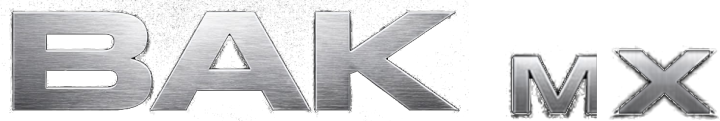
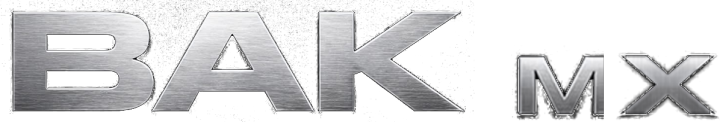
One place for parts: build sheet only; header MX lettering matched
- The bike form no longer asks 'What's changed' (exhaust, fork, shock, engine, ECU, intake,
  clutch, tire models): parts and work live only on the build sheet. 'Map you run' stays as a
  setting under 'Gearing, tires & map'. The form points to the build sheet instead.
- Answers older versions saved on that form reach Ask BAK only as a note for a section the
  build sheet says nothing about, never as a second, conflicting source.
- Garage readiness chip 'What's changed' becomes 'Build sheet' and reads the sheet.
- Header wordmark: M and X cut as one matched pair (same rows, same scale) so the M is no
  longer smaller and lighter than the X.

Claude-Session: https://claude.ai/code/session_01QUtwyzksjK6GBWw2v5DT5q

diff --git a/apps/mobile/src/App.tsx b/apps/mobile/src/App.tsx
@@ -34,6 +34,7 @@ import {mergeGarageDraft} from '../../../shared/garage-updates';
 import {AI_CONSENT_VERSION,aiConsentTitle,aiConsentPoints,aiConsentAgree} from '../../../shared/ai-consent';
 import type {SetupLog} from '../../../shared/rider-types';
 import {garageFieldGroups,buildProgress} from '../../../shared/garage-fields';
+import {systemsRecorded,partSystems} from '../../../shared/installed-parts';
 import {CommunityScreen,EventsScreen,MessagesScreen,SetupLogCard,PartsCatalogCard,ProfileCard,FeedbackCard,SetupGuideCard} from './RiderScreens';
 import type {RiderRef} from '../../../shared/rider-types';
 type Tabs={Home:undefined;Garage:undefined;'Ask BAK':{mode?:Conversation['mode'];context?:string;contextToken?:string;contextBikeId?:string}|undefined;Maintenance:undefined;Account:undefined;Setup:undefined;Specs:undefined;Workshop:undefined;Bikes:undefined;Community:undefined;Events:undefined;Messages:{rider?:RiderRef}|undefined};
@@ -60,13 +61,13 @@ function Home({navigation}:BottomTabScreenProps<Tabs,'Home'>){const{bike,bikes}=
 type Coverage={specs:number;suspension_settings:number;torque_values:number;parts_catalog:{complete:boolean;part_count:number}|null;workshop_guides:number};
 function BikeReadiness({bike,onEdit}:{bike:Bike;onEdit?:()=>void}){const[coverage,setCoverage]=useState<Coverage|null>(null);const progress=buildProgress(bike);useEffect(()=>{let live=true;setCoverage(null);api<Coverage>(`/api/coverage?bike_id=${bike.id}`).then(r=>{if(live)setCoverage(r);}).catch(()=>{});return()=>{live=false;};},[bike.id,bike.updated_at]);
  const c=bike.configuration??{},has=(keys:string[])=>keys.some(k=>c[k]!==null&&c[k]!==undefined&&String(c[k]).trim()!=='');
- const steps=[{label:'You',done:has(['geared_weight_lb','geared_weight_kg'])&&has(['skill_level'])},{label:'Clickers & sag',done:has(['fork_compression','fork_rebound','shock_compression','shock_rebound','rider_sag_mm'])},{label:'What’s changed',done:progress.total-progress.missing.length>=5||has(['exhaust','fork','shock','engine_modifications','active_map'])}];
+ const steps=[{label:'You',done:has(['geared_weight_lb','geared_weight_kg'])&&has(['skill_level'])},{label:'Clickers & sag',done:has(['fork_compression','fork_rebound','shock_compression','shock_rebound','rider_sag_mm'])},{label:'Build sheet',done:systemsRecorded(c)>=Math.ceil(partSystems.length/2)}];
  const have=coverage?[coverage.specs>0&&`${coverage.specs} specs`,coverage.torque_values>0&&`${coverage.torque_values} torques`,coverage.workshop_guides>0&&`${coverage.workshop_guides} guides`,coverage.parts_catalog&&'parts catalog'].filter(Boolean):[];
  return <View style={{gap:10}}><View style={{flexDirection:'row',flexWrap:'wrap',gap:8}}>{steps.map(x=><Chip key={x.label} label={x.label} done={x.done}/>)}</View>{onEdit&&steps.some(x=>!x.done)&&<LinkAction title="Finish setup · about 2 minutes" onPress={onEdit}/>}{coverage&&<Text style={{color:'#9aa2af',fontSize:13}}>{have.length?`BAK has ${have.join(' · ')} for this bike.`:'BAK has general knowledge for this bike; exact specs are still being added.'}</Text>}</View>;}
 function Garage({navigation}:BottomTabScreenProps<Tabs,'Garage'>){const [formOpen,setFormOpen]=useState(false);const [moreOpen,setMoreOpen]=useState<Record<string,boolean>>({});const c=useContext(Ctx),[savedDraft]=useState(()=>readProgress<{editing:string|null;custom?:boolean;make:string;model:string;year:string;variant:string;region:string;name:string;hours:string;config:Record<string,unknown>;base?:{at:string;config:Record<string,unknown>}}|null>(c.session.user.id,'garage-draft',null)),[custom,setCustom]=useState(savedDraft?.custom??false),[editing,setEditing]=useState<string|null>(savedDraft?.editing??null),[make,setMake]=useState(savedDraft?.make??'KTM'),[model,setModel]=useState(savedDraft?.model??'450 SX-F'),[year,setYear]=useState(savedDraft?.year??'2025'),[variant,setVariant]=useState(savedDraft?.variant??'standard'),[region,setRegion]=useState(savedDraft?.region??'US'),[name,setName]=useState(savedDraft?.name??''),[hours,setHours]=useState(savedDraft?.hours??''),[config,setConfig]=useState<Record<string,unknown>>(savedDraft?.config??{}),[notice,setNotice]=useState(''),[busy,setBusy]=useState(false);const fields=['engine','intake','exhaust','ecu','drivetrain','suspension','tires','rider'];const base=useRef<{at:string;config:Record<string,unknown>}>(savedDraft?.base??{at:'',config:savedDraft?.config??{}});
  /* The bike can change elsewhere while this form is open (a save from Ask BAK, the build sheet, the website): keep what the rider has edited here, take the rest from the saved bike. */
  useEffect(()=>{if(!editing)return;const sb=c.bikes.find(x=>x.id===editing);if(!sb||!sb.updated_at||sb.updated_at===base.current.at)return;const server=sb.configuration??{};setConfig(old=>mergeGarageDraft(old,base.current.config,server));base.current={at:sb.updated_at,config:server};},[c.bikes,editing]);const alive=useAlive(),mutating=useRef(false);useEffect(()=>{try{writeProgress(c.session.user.id,'garage-draft',{editing,custom,make,model,year,variant,region,name,hours,config,base:base.current});}catch{setNotice('This device could not save the Garage draft.');}},[editing,custom,make,model,year,variant,region,name,hours,config,c.session.user.id]);function load(b?:Bike,force=false){if(mutating.current&&!force)return;base.current={at:b?.updated_at??'',config:b?.configuration??{}};setEditing(b?.id??null);setCustom(Boolean(b&&(!models[b.manufacturer]?.includes(b.model)||!garageModelYears(b.manufacturer,b.model).includes(b.model_year))));setMake(b?.manufacturer??'KTM');setModel(b?.model??'450 SX-F');setYear(String(b?.model_year??2025));setVariant(b?.variant??'standard');setRegion(b?.region??'US');setName(b?.nickname??'');setHours(b?.engine_hours?.toString()??'');setConfig(b?.configuration??{});}async function save(){if(mutating.current)return;mutating.current=true;setBusy(true);try{if(!make.trim()||!model.trim()||!/^\d{4}$/.test(year)||Number(year)<1970||Number(year)>2027)throw new Error('Enter the manufacturer, exact off-road model and a year from 1970 to 2027.');const body={manufacturer:make.trim(),model:model.trim(),model_year:Number(year),variant,region,nickname:name,engine_hours:num(hours),configuration:{...config,...(custom?{identity_source:'rider_declared',vehicle_use:config.vehicle_use??'motocross'}:{})}};let submission:Record<string,unknown>=body;if(!editing){const attempt=createAttempt(readProgress(c.session.user.id,'bike-create',null),body,randomUUID);writeProgress(c.session.user.id,'bike-create',attempt);submission={...body,create_id:attempt.id};}const r=await api<Bike>(editing?`/api/bikes?id=${editing}`:'/api/bikes',editing?'PATCH':'POST',submission);if(!alive.current)return;load(r,true);c.select(r.id);setFormOpen(false);try{writeProgress(c.session.user.id,'bike-create',null);}catch{}success();try{await c.reload();if(alive.current)setNotice('Motorcycle saved.');}catch{if(alive.current)setNotice('Motorcycle saved. Retry the Garage connection to refresh your bike list.');}}catch(e){setNotice(errorText(e));}finally{mutating.current=false;if(alive.current)setBusy(false);}}async function remove(id:string){if(mutating.current||!alive.current)return;mutating.current=true;setBusy(true);try{await api(`/api/bikes?id=${id}`,'DELETE');if(!alive.current)return;await c.reload();if(alive.current)load(undefined,true);}catch(e){if(alive.current)setNotice(errorText(e));}finally{mutating.current=false;if(alive.current)setBusy(false);}}const show=formOpen||!c.bikes.length;const[wheel,setWheel]=useState(false);const[gtab,setGtab]=useState<'overview'|'build'|'photos'>('overview');const garagePhotos=useBikePhotos(c.bike?.id);
- const groupNotes:Record<string,string>={'You':'Sets spring and clicker direction','Clickers & sag':'Where your settings are now. Blank means stock.','What’s changed':'Leave blank if it’s stock','Gearing & tires':'Optional'};
+ const groupNotes:Record<string,string>={'You':'Sets spring and clicker direction','Clickers & sag':'Where your settings are now. Blank means stock.','Gearing, tires & map':'Optional'};
  const field=(f:{key:string;label:string;numeric?:boolean;unit?:string;placeholder?:string;options?:string[]})=>f.options?<Select key={f.key} disabled={busy} label={f.label} value={config[f.key]==null?'':String(config[f.key])} options={[{value:'',label:'—'},...f.options.map(o=>({value:o,label:o})),...(config[f.key]&&!f.options.includes(String(config[f.key]))?[{value:String(config[f.key]),label:String(config[f.key])}]:[])]} onChange={v=>setConfig({...config,[f.key]:v||null})}/>:<Field editable={!busy} key={f.key} label={f.unit?`${f.label} (${f.unit})`:f.label} placeholder={f.placeholder} keyboardType={f.numeric?'decimal-pad':'default'} value={config[f.key]==null?'':String(config[f.key])} onChangeText={v=>setConfig({...config,[f.key]:v.trim()?(f.numeric&&Number.isFinite(Number(v))?Number(v):v):null})}/>;
  return <Page title="Garage"><Notice text={notice}/>
  {!show&&c.bike&&(()=>{const b=c.bike;const others=c.bikes.length>1;return <>
@@ -106,7 +107,7 @@ function Garage({navigation}:BottomTabScreenProps<Tabs,'Garage'>){const [formOpe
    <Pressable accessibilityRole="button" onPress={()=>setMoreOpen({...moreOpen,_bike:!moreOpen._bike})}><Text style={{color:colors.accent,fontWeight:'700'}}>{moreOpen._bike?'Hide details':'More details'}</Text></Pressable>
    {moreOpen._bike&&<><Field editable={!busy} label="Nickname" placeholder="Race bike" value={name} onChangeText={setName}/><Field editable={!busy} label="Version (“standard” unless Factory Edition etc.)" value={variant} onChangeText={setVariant}/><Field editable={!busy} label="Market" value={region} onChangeText={setRegion}/><Pressable accessibilityRole="button" onPress={()=>{if(custom){setCustom(false);setMake('KTM');setModel(models.KTM[0]);setYear(String(garageModelYears('KTM',models.KTM[0]).at(-1)));}else{setCustom(true);setMake('');setModel('');}}}><Text style={{color:colors.accent,fontWeight:'700'}}>{custom?'Pick from the list instead':'My bike isn’t listed'}</Text></Pressable>{editing&&<Pressable accessibilityRole="button" onPress={()=>Alert.alert('Delete this bike?','This also removes its conversations and service history.',[{text:'Cancel',style:'cancel'},{text:'Delete',style:'destructive',onPress:()=>{setFormOpen(false);void remove(editing);}}])}><Text style={{color:'#e69a9a',fontWeight:'700'}}>Delete this bike</Text></Pressable>}</>}
   </Card>
-  {(Object.entries(garageFieldGroups) as [string,{key:string;label:string;numeric?:boolean;unit?:string;placeholder?:string;options?:string[];more?:boolean}[]][]).map(([group,list])=><Card key={group}><Text style={{color:colors.text,fontSize:17,fontWeight:'800'}}>{group}</Text><Text style={{color:'#9aa2af',fontSize:13}}>{groupNotes[group]??''}</Text>{list.filter(f=>!f.more).map(field)}{list.some(f=>f.more)&&<Pressable accessibilityRole="button" onPress={()=>setMoreOpen({...moreOpen,[group]:!moreOpen[group]})}><Text style={{color:colors.accent,fontWeight:'700'}}>{moreOpen[group]?'Less':'More'}</Text></Pressable>}{moreOpen[group]&&list.filter(f=>f.more).map(field)}</Card>)}
+  {(Object.entries(garageFieldGroups) as [string,{key:string;label:string;numeric?:boolean;unit?:string;placeholder?:string;options?:string[];more?:boolean}[]][]).map(([group,list])=><Card key={group}><Text style={{color:colors.text,fontSize:17,fontWeight:'800'}}>{group}</Text><Text style={{color:'#9aa2af',fontSize:13}}>{groupNotes[group]??''}</Text>{list.filter(f=>!f.more).map(field)}{list.some(f=>f.more)&&<Pressable accessibilityRole="button" onPress={()=>setMoreOpen({...moreOpen,[group]:!moreOpen[group]})}><Text style={{color:colors.accent,fontWeight:'700'}}>{moreOpen[group]?'Less':'More'}</Text></Pressable>}{moreOpen[group]&&list.filter(f=>f.more).map(field)}</Card>)}<Card><Text style={{color:colors.text,fontSize:17,fontWeight:'800'}}>Parts and work done</Text><Text style={{color:'#9aa2af',fontSize:13}}>{editing?'Exhaust, suspension work, clutch, tires and everything else fitted go on the build sheet, so BAK has one place to read them.':'After you save, add what’s fitted on the build sheet: exhaust, suspension work, clutch, tires and the rest.'}</Text>{editing&&<LinkAction title="Open the build sheet" onPress={()=>{setFormOpen(false);setGtab('build');}}/>}</Card>
   <Button disabled={busy} title={busy?'Saving…':'Save'} onPress={()=>void save()}/>{c.bikes.length>0&&<Button secondary disabled={busy} title="Cancel" onPress={()=>{load(undefined,true);setFormOpen(false);}}/>}
  </>}
  </Page>}

diff --git a/shared/garage-fields.ts b/shared/garage-fields.ts
@@ -1,6 +1,7 @@
 import type {Bike} from './types.ts';
 import {readInstalled,systemsRecorded,partSystems} from './installed-parts.ts';
-/** One definition of the build profile for web and native, so a bike edited on either reads the same. */
+/** One definition of the build profile for web and native, so a bike edited on either reads the same. Settings live here;
+ *  parts and work done live only on the build sheet (installed-parts.ts), so the two can never disagree. */
 export type GarageField={key:string;label:string;numeric?:boolean;unit?:string;placeholder?:string;options?:string[];hint?:string;more?:boolean};
 /** Written the way riders write it on the setup sheet in the truck: clicks out from all the way in, sag in mm, gearing 13/50.
  *  Everything is optional; "more" fields stay folded away so a first setup takes a couple of minutes. */
@@ -19,21 +20,11 @@ export const garageFieldGroups:Record<string,GarageField[]>={
   {key:'fork_spring_rate',label:'Fork springs',placeholder:'Stock, or 4.6 N/mm / air psi'},
   {key:'shock_spring_rate',label:'Shock spring',placeholder:'Stock, or 48 N/mm'},
   {key:'fork_height_mm',label:'Fork tubes above top clamp',numeric:true,unit:'mm',placeholder:'5',more:true}],
- 'What’s changed':[
-  {key:'exhaust',label:'Exhaust',placeholder:'Stock, or brand and model'},
-  {key:'fork',label:'Fork work',placeholder:'Stock, or revalved by…'},
-  {key:'shock',label:'Shock work',placeholder:'Stock, or revalved by…'},
-  {key:'engine_modifications',label:'Engine work',placeholder:'Stock, or cams, piston, head work…'},
-  {key:'active_map',label:'Map you run',placeholder:'Map 2, TC on'},
-  {key:'ecu',label:'ECU or tuner',placeholder:'Stock, or flashed by…',more:true},
-  {key:'intake',label:'Air filter / intake',placeholder:'Stock',more:true},
-  {key:'clutch',label:'Clutch',placeholder:'Stock, or auto clutch, springs…',more:true}],
- 'Gearing & tires':[
+ 'Gearing, tires & map':[
   {key:'front_sprocket',label:'Front sprocket',numeric:true,placeholder:'13'},
   {key:'rear_sprocket',label:'Rear sprocket',numeric:true,placeholder:'50'},
   {key:'tire_pressures',label:'Tire pressure',placeholder:'13 / 13 psi'},
-  {key:'front_tire',label:'Front tire',placeholder:'MX33 80/100-21',more:true},
-  {key:'rear_tire',label:'Rear tire',placeholder:'MX33 110/90-19',more:true}],
+  {key:'active_map',label:'Map you run',placeholder:'Map 2, TC on'}],
 };
 /** Rider measurements are kept in US units. Builds saved before that change stored kilograms and centimetres; convert them once, here. */
 export function usConfiguration(configuration:Record<string,unknown>|null|undefined):Record<string,unknown>{
@@ -45,6 +36,9 @@ export function usConfiguration(configuration:Record<string,unknown>|null|undefi
  return c;
 }
 export const allGarageFields=Object.values(garageFieldGroups).flat();
+/** Free-text part answers older versions asked for on this form, by build-sheet system. Parts now live only on the build
+ *  sheet; these are read as notes for a system the sheet doesn't cover, and never shown as a separate source. */
+export const LEGACY_PART_FIELDS:Record<string,string>={exhaust:'exhaust',fork:'suspension',shock:'suspension',engine_modifications:'engine',ecu:'tuning',intake:'intake',clutch:'clutch',front_tire:'wheels',rear_tire:'wheels'};
 const filled=(v:unknown)=>v!==null&&v!==undefined&&String(v).trim()!=='';
 export type BuildCheck={id:string;label:string;done:boolean;why:string};
 /** What BAK knows about this build. Each item says why it matters, so a gap is a reason to fill it in. */
@@ -55,9 +49,9 @@ export function buildChecks(bike:Pick<Bike,'engine_hours'|'configuration'>):Buil
   {id:'hours',label:'Engine hours',done:bike.engine_hours!==null&&bike.engine_hours!==undefined,why:'Service timing and wear-related advice depend on hours.'},
   {id:'rider',label:'Rider weight and level',done:(filled(c.geared_weight_lb)||filled(c.geared_weight_kg))&&filled(c.skill_level),why:'Spring rate and setup direction start from the rider.'},
   {id:'suspension',label:'Current suspension settings',done:any(['rider_sag_mm','fork_compression','fork_rebound','shock_compression','shock_rebound']),why:'BAK can only suggest a change from where your clickers and sag are now.'},
-  {id:'springs',label:'Spring rates or revalve',done:any(['fork_spring_rate','shock_spring_rate','fork','shock']),why:'Stock settings stop applying once springs or valving change.'},
-  {id:'engine',label:'Engine, exhaust and map',done:any(['engine_modifications','exhaust','ecu','active_map','intake'])||onSheet(['exhaust','engine','tuning','intake']),why:'Mapping and jetting advice depends on what is fitted.'},
-  {id:'drivetrain',label:'Gearing and tires',done:any(['front_sprocket','rear_sprocket','front_tire','rear_tire','tire_pressures'])||onSheet(['gearing','wheels']),why:'Gearing and tire choice change how the bike drives and turns.'},
+  {id:'springs',label:'Spring rates or revalve',done:any(['fork_spring_rate','shock_spring_rate'])||onSheet(['suspension']),why:'Stock settings stop applying once springs or valving change.'},
+  {id:'engine',label:'Engine, exhaust and map',done:any(['active_map'])||onSheet(['exhaust','engine','tuning','intake']),why:'Mapping and jetting advice depends on what is fitted.'},
+  {id:'drivetrain',label:'Gearing and tires',done:any(['front_sprocket','rear_sprocket','tire_pressures'])||onSheet(['gearing','wheels']),why:'Gearing and tire choice change how the bike drives and turns.'},
   {id:'parts',label:'What’s on the bike',done:systemsRecorded(c)>=Math.ceil(partSystems.length/2),why:'Fitted parts change which stock settings and maps still apply.'},
  ];
 }

diff --git a/server/installed-parts-context.ts b/server/installed-parts-context.ts
@@ -2,6 +2,7 @@ import {readInstalled,partSystems,systemLabel} from '../shared/installed-parts.t
 import {researchedParts} from '../shared/aftermarket-research.ts';
 import {workProviders} from '../shared/work-providers.ts';
 import {checkBuild} from '../shared/build-check.ts';
+import {LEGACY_PART_FIELDS} from '../shared/garage-fields.ts';
 /** What the rider has fitted, for the answer model: each part by system with the research notes BAK holds for it, the systems
  *  confirmed stock, and the systems not recorded (unknown, not stock). Null when nothing has been recorded. */
 /** A shop's service notes describe the bikes it lists (a two-stroke ECU remap is not a 450 four-stroke remap): attach them only
@@ -13,6 +14,10 @@ function researchFor(id:string|undefined,bike?:{manufacturer:string;model:string
 }
 export function installedPartsContext(configuration:Record<string,unknown>|null|undefined,bike?:{manufacturer:string;model:string;model_year?:number}){
  const {parts,stock,notes}=readInstalled(configuration);
+ // older setup-form answers: kept only as a note for a system the build sheet says nothing about
+ const covered=new Set([...parts.map(p=>p.s as string),...stock]),legacy:Record<string,string>={};
+ for(const [key,system] of Object.entries(LEGACY_PART_FIELDS)){const v=String(configuration?.[key]??'').trim();if(v&&!covered.has(system))legacy[system]=[legacy[system],v].filter(Boolean).join('; ');}
+ for(const [system,v] of Object.entries(legacy))if(!notes[system as keyof typeof notes])(notes as Record<string,string>)[system]=v;
  if(!parts.length&&!stock.length&&!Object.keys(notes).length)return null;
  const known=new Set([...parts.filter(p=>!p.o).map(p=>p.s),...stock]);
  const describe=(p:typeof parts[number])=>{const r=researchFor(p.r,bike);return {system:systemLabel(p.s),part:[p.b,p.n].filter(Boolean).join(' '),...(p.v?{size:p.v}:{}),...(p.k?{color:p.k}:{}),...(p.p?{part_number:p.p}:{}),...(p.d?{rider_detail:p.d}:{}),
@@ -29,4 +34,4 @@ export function installedPartsContext(configuration:Record<string,unknown>|null|
  };
 }
 /** The bike's configuration without the build-sheet keys, which installed_parts carries in readable form. */
-export function withoutBuildSheet(configuration:Record<string,unknown>){const {installed_parts:_a,stock_systems:_b,parts_notes:_c,...rest}=configuration;return rest;}
+export function withoutBuildSheet(configuration:Record<string,unknown>){const {installed_parts:_a,stock_systems:_b,parts_notes:_c,...rest}=configuration;for(const k of Object.keys(LEGACY_PART_FIELDS))delete rest[k];return rest;}

diff --git a/src/App.tsx b/src/App.tsx
@@ -20,6 +20,7 @@ import {api,supabase} from './client';
 import {finalDrive,gearingChange,sagPercent,speedKmh} from '../shared/calculators';
 const Workshop=lazy(()=>import('./Workshop').then(m=>({default:m.Workshop})));
 import {garageFieldGroups,buildProgress,usConfiguration,type GarageField} from '../shared/garage-fields';
+import {systemsRecorded,partSystems} from '../shared/installed-parts';
 import {Community,Events,Messages,ProfilePanel,Feedback,SetupLogPanel,PartsCatalog,SetupGuide,ReportQueue} from './Rider';
 import type {RiderRef} from '../shared/rider-types';
 import {buildIdentity,exactBikeScope,canonicalVariant,canonicalRegion} from '../shared/bike-identity';
@@ -87,7 +88,7 @@ function BikeReadiness({bike,onEdit}:{bike:Bike;onEdit:()=>void}){
  const [coverage,setCoverage]=useState<Coverage|null>(null);const progress=buildProgress(bike);
  useEffect(()=>{let live=true;setCoverage(null);api<Coverage>('/coverage?bike_id='+bike.id).then(c=>{if(live)setCoverage(c)}).catch(()=>{});return()=>{live=false}},[bike.id,bike.updated_at]);
  const c=bike.configuration??{},has=(keys:string[])=>keys.some(k=>c[k]!==null&&c[k]!==undefined&&String(c[k]).trim()!=='');
- const steps=[{label:'You',done:has(['geared_weight_lb','geared_weight_kg'])&&has(['skill_level'])},{label:'Clickers & sag',done:has(['fork_compression','fork_rebound','shock_compression','shock_rebound','rider_sag_mm'])},{label:'What’s changed',done:progress.total-progress.missing.length>=5||has(['exhaust','fork','shock','engine_modifications','active_map'])}];
+ const steps=[{label:'You',done:has(['geared_weight_lb','geared_weight_kg'])&&has(['skill_level'])},{label:'Clickers & sag',done:has(['fork_compression','fork_rebound','shock_compression','shock_rebound','rider_sag_mm'])},{label:'Build sheet',done:systemsRecorded(c)>=Math.ceil(partSystems.length/2)}];
  const left=steps.filter(x=>!x.done).length;
  const have=coverage?[coverage.specs>0&&`${coverage.specs} specs`,coverage.torque_values>0&&`${coverage.torque_values} torques`,coverage.workshop_guides>0&&`${coverage.workshop_guides} guides`,coverage.parts_catalog&&'parts catalog'].filter(Boolean):[];
  return <div className="readiness simple">

diff --git a/tests/installed-parts.test.ts b/tests/installed-parts.test.ts
@@ -31,7 +31,10 @@ test('Ask BAK gets fitted parts with research notes, confirmed stock and unknown
  assert.deepEqual(ctx.confirmed_stock,['Brakes']);
  assert.ok(ctx.not_recorded.includes('Suspension')&&!ctx.not_recorded.includes('Exhaust'));
  assert.equal(installedPartsContext({}),null);
- assert.deepEqual(withoutBuildSheet({installed_parts:[],stock_systems:[],parts_notes:{},exhaust:'FMF'}),{exhaust:'FMF'});
+ // parts typed on the old setup form never travel as a second source: they are notes only where the sheet is silent
+ assert.deepEqual(withoutBuildSheet({installed_parts:[],stock_systems:[],parts_notes:{},exhaust:'FMF',active_map:'Map 2'}),{active_map:'Map 2'});
+ assert.equal(installedPartsContext({exhaust:'FMF 4.1',fork:'WP 6500 kit'})!.rider_notes['Exhaust'],'FMF 4.1');
+ assert.equal(installedPartsContext({exhaust:'FMF 4.1',installed_parts:[{s:'exhaust',b:'Pro Circuit',n:'T-6'}]})!.rider_notes['Exhaust'],undefined);
 });
 test('the build sheet counts toward the build profile',()=>{
  const checks=buildChecks({engine_hours:null,configuration:{installed_parts:[{s:'exhaust',b:'FMF',n:'4.1'}],stock_systems:['gearing']}});
